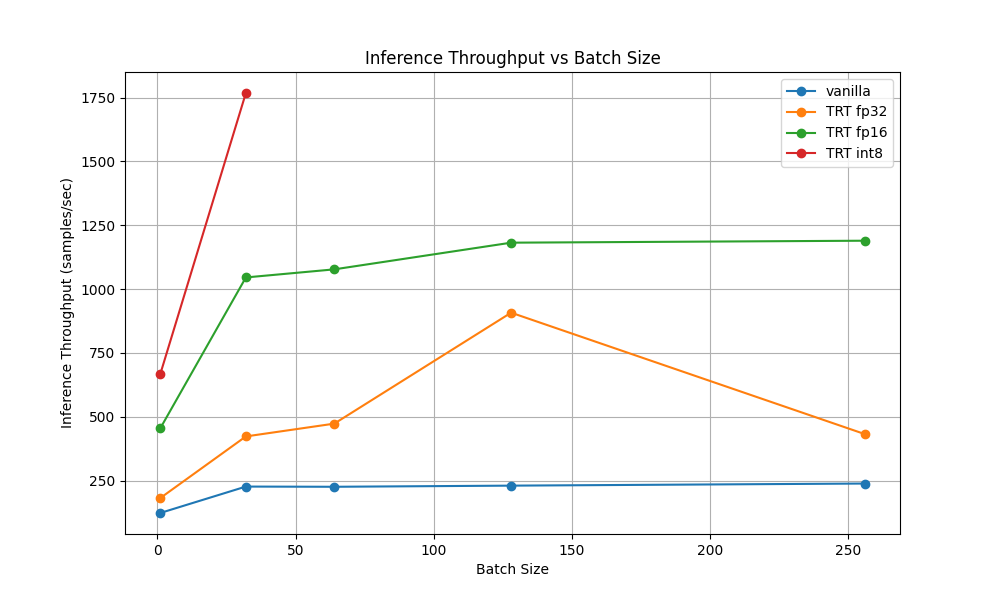
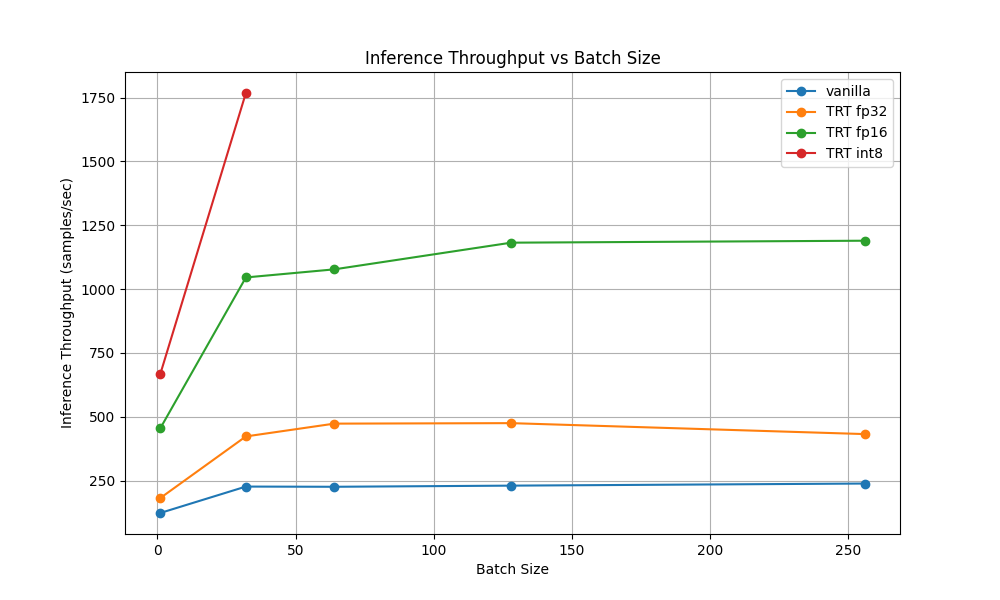
inference throughput update

diff --git a/inference_throughputs.py b/inference_throughputs.py
@@ -4,7 +4,7 @@ import matplotlib.pyplot as plt
 # Supongamos que tienes los siguientes tiempos promedio de inferencia (en segundos) para cada batch size
 # (Estos son solo datos de ejemplo, reemplácelos con los tuyos)
 times_vanilla = np.array([8.1, 141, 283, 555.1, 1072])
-times_trt_fp32 = np.array([5.5, 75.6, 135.2, 141, 592])
+times_trt_fp32 = np.array([5.5, 75.6, 135.2, 269.3, 592])
 times_trt_fp16 = np.array([2.2 , 30.6 , 59.4,108.3, 215.2])
 times_trt_int8 = np.array([1.5 , 18.1, 0, 0, 0])
 
